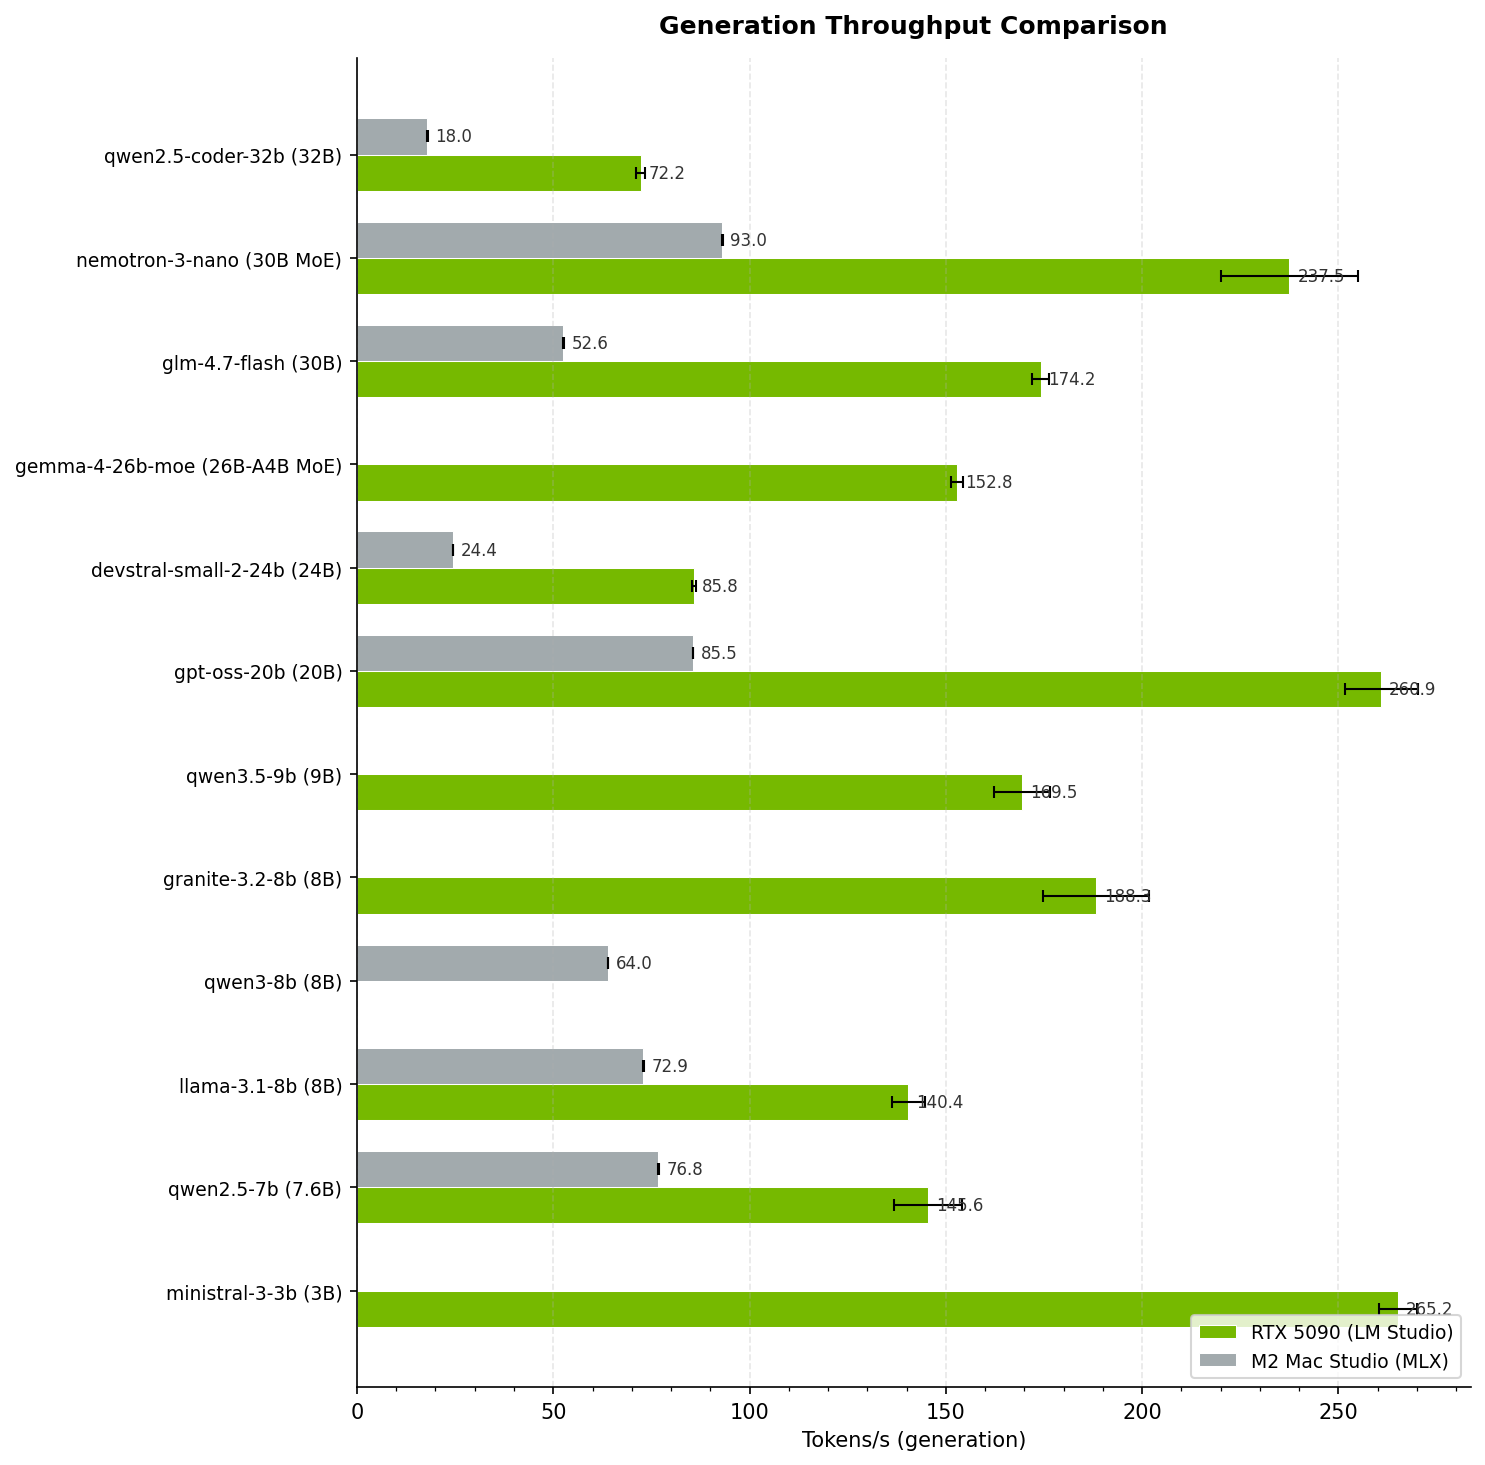
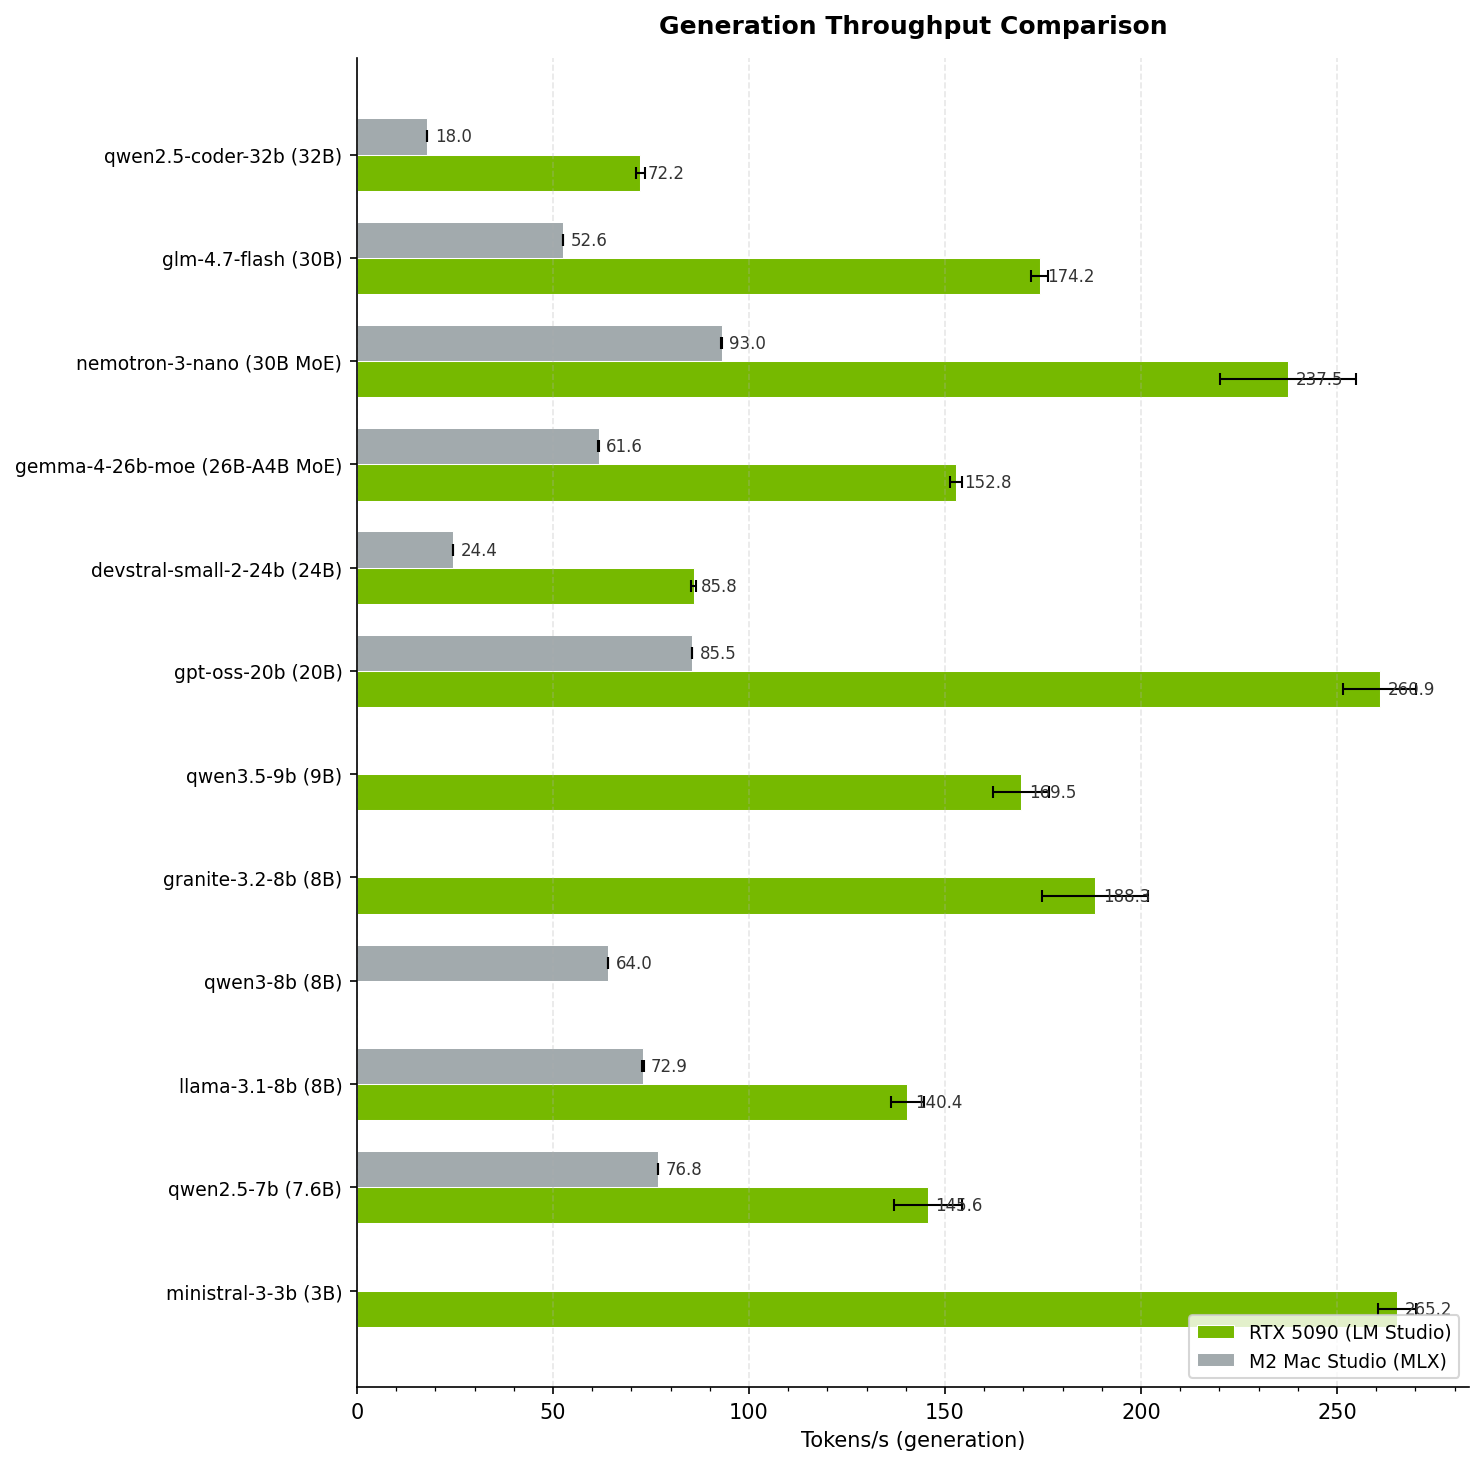
Add mlx_vlm benchmark support for Gemma 4 on M2 Mac Studio
mlx_lm doesn't support the gemma4 VLM architecture, so add a standalone
mlx_vlm_benchmark.py script that uses mlx_vlm.generate() for text-only
benchmarking. Models with `vlm: true` in config are routed to this script.
Output format matches mlx_lm benchmark so existing parsing works unchanged.

Results: Gemma 4 26B-A4B MoE on M2 Mac Studio — 465 t/s prefill, 62 t/s gen.

diff --git a/run_benchmarks.py b/run_benchmarks.py
@@ -649,13 +649,24 @@ def run_mlx_bench(
 ) -> dict | None:
     """Execute mlx_lm benchmark and return parsed metrics with resource telemetry."""
 
-    cmd = [
-        mlx_python, "-m", "mlx_lm", "benchmark",
-        "--model", model_id,
-        "--prompt-tokens", str(params["prompt_tokens"]),
-        "--generation-tokens", str(params["generation_tokens"]),
-        "--num-trials", str(params["n_runs"] + 1),  # +1 for warm-up (mlx_lm does its own warmup, but we add 1 extra for consistency)
-    ]
+    is_vlm = params.get("vlm", False)
+    if is_vlm:
+        vlm_script = os.path.join(os.path.dirname(__file__), "mlx_vlm_benchmark.py")
+        cmd = [
+            mlx_python, vlm_script,
+            "--model", model_id,
+            "--prompt-tokens", str(params["prompt_tokens"]),
+            "--generation-tokens", str(params["generation_tokens"]),
+            "--num-trials", str(params["n_runs"] + 1),
+        ]
+    else:
+        cmd = [
+            mlx_python, "-m", "mlx_lm", "benchmark",
+            "--model", model_id,
+            "--prompt-tokens", str(params["prompt_tokens"]),
+            "--generation-tokens", str(params["generation_tokens"]),
+            "--num-trials", str(params["n_runs"] + 1),  # +1 for warm-up (mlx_lm does its own warmup, but we add 1 extra for consistency)
+        ]
 
     print(f"  Command: {' '.join(cmd)}")
 
@@ -1042,6 +1053,7 @@ def main():
                 "params": model_cfg.get("params", ""),
                 "arch": model_cfg.get("arch", ""),
                 "size_gb": model_cfg.get("size_gb", 0),
+                "vlm": model_cfg.get("vlm", False),
             })
         elif engine == "llama-bench":
             for quant in model_cfg.get("quants", ["default"]):
@@ -1098,7 +1110,8 @@ def main():
         elif engine == "mlx":
             mlx_cfg = config.get("mlx", {})
             mlx_python = mlx_cfg.get("python_path", "python3")
-            metrics = run_mlx_bench(mlx_python, run["mlx_model_id"], params, monitor)
+            mlx_params = {**params, "vlm": run.get("vlm", False)}
+            metrics = run_mlx_bench(mlx_python, run["mlx_model_id"], mlx_params, monitor)
         elif engine == "llama-bench":
             model_path = resolve_model_path(config["model_dir"], run["name"], run["quant"])
             if model_path is None:

diff --git a/mlx_vlm_benchmark.py b/mlx_vlm_benchmark.py
@@ -1,0 +1,52 @@
+#!/usr/bin/env python3
+"""Benchmark script for mlx_vlm models (text-only mode).
+
+Produces output identical to `mlx_lm benchmark` so that
+parse_mlx_bench_output() in run_benchmarks.py works unchanged.
+"""
+
+import argparse
+
+import mlx.core as mx
+
+
+def benchmark(model, processor, prompt_tokens: int, generation_tokens: int, num_trials: int):
+    from mlx_vlm import generate
+
+    # Build a dummy prompt with the target number of tokens.
+    dummy_text = "hello " * (prompt_tokens * 2)
+    input_ids = processor.tokenizer.encode(dummy_text)
+    input_ids = input_ids[:prompt_tokens]
+    prompt_text = processor.tokenizer.decode(input_ids)
+
+    print("Running warmup..")
+    generate(model, processor, prompt_text, image=None, max_tokens=generation_tokens)
+
+    print(f"Timing with prompt_tokens={prompt_tokens}, generation_tokens={generation_tokens}, batch_size=1.")
+
+    for trial in range(1, num_trials + 1):
+        mx.metal.reset_peak_memory()
+        result = generate(model, processor, prompt_text, image=None, max_tokens=generation_tokens)
+        peak_gb = mx.metal.get_peak_memory() / (1024 ** 3)
+
+        print(f"Trial {trial}:  prompt_tps={result.prompt_tps:.3f}, generation_tps={result.generation_tps:.3f}, peak_memory={peak_gb:.3f}")
+
+
+def main():
+    parser = argparse.ArgumentParser(description="mlx_vlm text-only benchmark")
+    parser.add_argument("--model", required=True, help="HuggingFace model ID or local path")
+    parser.add_argument("--prompt-tokens", type=int, default=512)
+    parser.add_argument("--generation-tokens", type=int, default=128)
+    parser.add_argument("--num-trials", type=int, default=3)
+    args = parser.parse_args()
+
+    from mlx_vlm import load
+
+    print(f"Loading {args.model}...")
+    model, processor = load(args.model)
+
+    benchmark(model, processor, args.prompt_tokens, args.generation_tokens, args.num_trials)
+
+
+if __name__ == "__main__":
+    main()

diff --git a/README.md b/README.md
@@ -21,8 +21,8 @@ Systematic, reproducible benchmarks for local LLM inference on consumer-grade ha
 |-------|--------|------------------:|------------------:|----------------:|---------------:|-----------:|----------:|
 | ministral-3-3b | 3B | **265.2** | 243.9 | 0.060 | 2.10 | 7.4 GB | 119 W |
 | qwen2.5-7b | 7.6B | **145.6** | 242.7 | 0.060 | 2.11 | 11.4 GB | 146 W |
-| granite-3.2-8b | 8B | **188.3** | 240.3 | 0.080 | 2.13 | 9.3 GB | 160 W |
 | llama-3.1-8b | 8B | **140.4** | 238.1 | 0.080 | 2.15 | 12.1 GB | 146 W |
+| granite-3.2-8b | 8B | **188.3** | 240.3 | 0.080 | 2.13 | 9.3 GB | 160 W |
 | qwen3.5-9b | 9B | **169.5** | 239.2 | 0.090 | 2.14 | 10.6 GB | 159 W |
 | gpt-oss-20b | 20B | **260.9** | 225.4 | 0.220 | 2.27 | 15.2 GB | 104 W |
 | devstral-small-2-24b | 24B | **85.8** | 239.8 | 0.080 | 2.14 | 18.6 GB | 226 W |
@@ -42,8 +42,9 @@ Systematic, reproducible benchmarks for local LLM inference on consumer-grade ha
 | qwen3-8b | 8B | **64.0** | 326.5 | 1.57 | 5.2 GB |
 | gpt-oss-20b | 20B | **85.5** | 501.5 | 1.02 | 11.7 GB |
 | devstral-small-2-24b | 24B | **24.4** | 104.2 | 4.92 | 13.8 GB |
-| glm-4.7-flash | 30B | **52.6** | 413.7 | 1.24 | 17.5 GB |
+| gemma-4-26b-moe | 26B-A4B MoE | **61.6** | 465.2 | 1.10 | 15.3 GB |
 | nemotron-3-nano | 30B MoE | **93.0** | 468.6 | 1.09 | 19.0 GB |
+| glm-4.7-flash | 30B | **52.6** | 413.7 | 1.24 | 17.5 GB |
 | qwen2.5-coder-32b | 32B | **18.0** | 126.8 | 4.04 | 19.1 GB |
 
 *Apple M2 Max — 64.0 GB unified memory — Engine: MLX*

diff --git a/results/m2-mac-studio/summary.md b/results/m2-mac-studio/summary.md
@@ -1,14 +1,7 @@
-# Benchmark Summary — M2 Mac Studio
+# Benchmark Summary
 
-Generated: 2026-04-03 00:16 UTC
+Generated: 2026-04-03 22:21 UTC
 
-| Model | Params | Arch | Prompt Eval (t/s) | Generation (t/s) | TTFT (s) | Peak Memory (MB) |
-|-------|--------|------|-------------------|-----------------|----------|-------------------|
-| devstral-small-2-24b | 24B | Mistral3 | 104.2 +/- 0.0 | 24.4 +/- 0.0 | 4.920 +/- 0.000 | 14093.3 |
-| glm-4.7-flash | 30B | DeepSeek2 | 413.7 +/- 0.4 | 52.6 +/- 0.0 | 1.240 +/- 0.000 | 17916.9 |
-| gpt-oss-20b | 20B | GPT-OSS | 501.5 +/- 0.2 | 85.5 +/- 0.0 | 1.020 +/- 0.000 | 11994.1 |
-| llama-3.1-8b | 8B | Llama | 566.4 +/- 0.6 | 72.9 +/- 0.2 | 0.900 +/- 0.000 | 5238.8 |
-| nemotron-3-nano | 30B MoE | Nemotron MoE | 468.6 +/- 0.1 | 93.0 +/- 0.1 | 1.090 +/- 0.000 | 19429.4 |
-| qwen2.5-7b | 7.6B | Qwen2 | 602.8 +/- 0.3 | 76.8 +/- 0.0 | 0.850 +/- 0.000 | 4950.0 |
-| qwen2.5-coder-32b | 32B | Qwen2 | 126.8 +/- 0.0 | 18.0 +/- 0.0 | 4.040 +/- 0.000 | 19578.9 |
-| qwen3-8b | 8B | Qwen3 | 326.5 +/- 0.1 | 64.0 +/- 0.1 | 1.570 +/- 0.000 | 5343.2 |
+| Model | Params | Arch | Generation (t/s) | Prompt Eval (t/s) | TTFT Total (s) | TTFT Server (s) | Peak VRAM (MB) | Mean Power (W) |
+|-------|--------|------|-------------------|-------------------|----------------|-----------------|----------------|----------------|
+| gemma-4-26b-moe | 26B-A4B MoE | Gemma4 MoE | 61.6 +/- 0.2 | 465.2 +/- 0.6 | 1.100 +/- 0.000 | N/A | 15621.1 | None |
